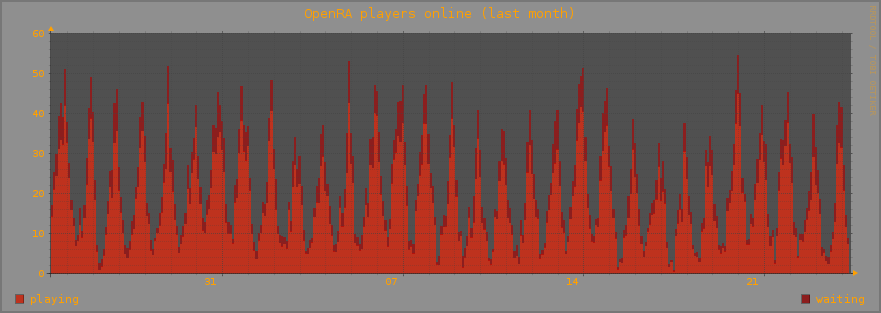
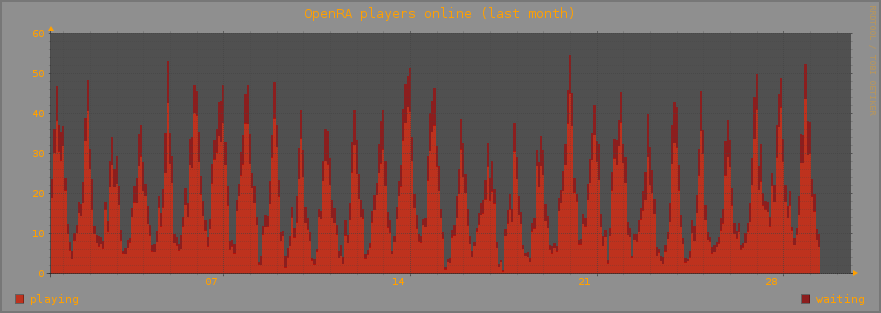
udpate db

diff --git a/log/redraw.ts b/log/redraw.ts
@@ -1,1 +1,1 @@
-2015-11-25 07:26:06
+2015-12-01 11:29:06
